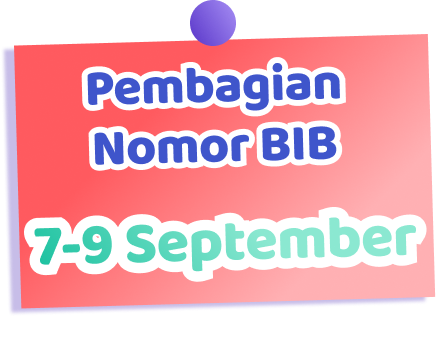
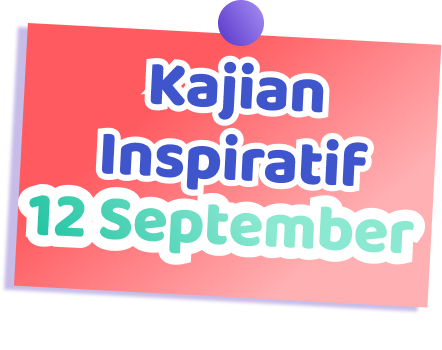
refactor: update activities with local card images and restructure timeline layout to five items

diff --git a/components/Timeline.tsx b/components/Timeline.tsx
@@ -23,34 +23,27 @@ const timelineData: TimelineItem[] = [
   },
   {
     id: 2,
-    title: "Penutupan Pendaftaran",
-    date: "6 September",
-    width: 439,
-    height: 351,
-  },
-  {
-    id: 3,
     title: "Pembagian Nomor BIB",
     date: "7-9 September",
     width: 437,
     height: 352,
   },
   {
-    id: 4,
+    id: 3,
     title: "Kajian Inspiratif",
     date: "12 September",
     width: 442,
     height: 350,
   },
   {
-    id: 5,
+    id: 4,
     title: "Aksi Donor Darah",
     date: "12 September",
     width: 438,
     height: 352,
   },
   {
-    id: 6,
+    id: 5,
     title: "Fun Run",
     date: "13 September",
     width: 542,
@@ -104,15 +97,15 @@ export function Timeline() {
 
         {/* Timeline Canvas Container */}
         <div className="relative mx-auto w-full max-w-5xl">
-          {/* Animated SVG Connecting Vector Line + Node Dots (Replaces line.png) */}
+          {/* Animated SVG Connecting Vector Line */}
           <svg
             className="pointer-events-none absolute inset-0 w-full h-full z-0 hidden md:block"
             viewBox="0 0 1000 520"
             preserveAspectRatio="none"
           >
-            {/* Red Zig-Zag Timeline Path (Fine-tuned position) */}
+            {/* Red Zig-Zag Timeline Path for 5 items */}
             <motion.path
-              d="M 166 42 L 500 42 L 834 42 L 166 306 L 500 306 L 834 306"
+              d="M 166 42 L 500 42 L 834 42 L 333 306 L 666 306"
               fill="none"
               stroke="#FF5B77"
               strokeWidth="5"
@@ -125,51 +118,55 @@ export function Timeline() {
             />
           </svg>
 
-          {/* Desktop Layout: 2 Rows matching Figma structure */}
-          <div className="relative z-10 hidden md:grid grid-cols-3 gap-y-16 gap-x-8 items-center py-6">
+          {/* Desktop Layout: 5 items */}
+          <div className="relative z-10 hidden md:block py-6">
             {/* Top Row: Tags 1, 2, 3 */}
-            {timelineData.slice(0, 3).map((item, index) => (
-              <motion.div
-                key={item.id}
-                initial={{ opacity: 0, scale: 0.7, y: 35 }}
-                whileInView={{ opacity: 1, scale: 1, y: 0 }}
-                viewport={{ once: true, amount: 0.2 }}
-                transition={{ ...spring, delay: index * 0.18 }}
-                whileHover={{ scale: 1.06, rotate: index % 2 === 0 ? 2 : -2 }}
-                className="flex justify-center"
-              >
-                <Image
-                  src={`/images/timeline/tag-${item.id}.png`}
-                  alt={`${item.title} - ${item.date}`}
-                  width={item.width}
-                  height={item.height}
-                  className="w-full max-w-[300px] h-auto object-contain drop-shadow-xl"
-                  priority
-                />
-              </motion.div>
-            ))}
+            <div className="grid grid-cols-3 gap-x-8 mb-16 items-center">
+              {timelineData.slice(0, 3).map((item, index) => (
+                <motion.div
+                  key={item.id}
+                  initial={{ opacity: 0, scale: 0.7, y: 35 }}
+                  whileInView={{ opacity: 1, scale: 1, y: 0 }}
+                  viewport={{ once: true, amount: 0.2 }}
+                  transition={{ ...spring, delay: index * 0.18 }}
+                  whileHover={{ scale: 1.06, rotate: index % 2 === 0 ? 2 : -2 }}
+                  className="flex justify-center"
+                >
+                  <Image
+                    src={`/images/timeline/tag-${item.id}.png`}
+                    alt={`${item.title} - ${item.date}`}
+                    width={item.width}
+                    height={item.height}
+                    className="w-full max-w-[300px] h-auto object-contain drop-shadow-xl"
+                    priority
+                  />
+                </motion.div>
+              ))}
+            </div>
 
-            {/* Bottom Row: Tags 4, 5, 6 */}
-            {timelineData.slice(3, 6).map((item, index) => (
-              <motion.div
-                key={item.id}
-                initial={{ opacity: 0, scale: 0.7, y: 35 }}
-                whileInView={{ opacity: 1, scale: 1, y: 0 }}
-                viewport={{ once: true, amount: 0.2 }}
-                transition={{ ...spring, delay: (index + 3) * 0.18 }}
-                whileHover={{ scale: 1.06, rotate: index % 2 === 0 ? -2 : 2 }}
-                className="flex justify-center"
-              >
-                <Image
-                  src={`/images/timeline/tag-${item.id}.png`}
-                  alt={`${item.title} - ${item.date}`}
-                  width={item.width}
-                  height={item.height}
-                  className="w-full max-w-[310px] h-auto object-contain drop-shadow-xl"
-                  priority
-                />
-              </motion.div>
-            ))}
+            {/* Bottom Row: Tags 4, 5 (centered nicely) */}
+            <div className="flex justify-center gap-16 items-center">
+              {timelineData.slice(3, 5).map((item, index) => (
+                <motion.div
+                  key={item.id}
+                  initial={{ opacity: 0, scale: 0.7, y: 35 }}
+                  whileInView={{ opacity: 1, scale: 1, y: 0 }}
+                  viewport={{ once: true, amount: 0.2 }}
+                  transition={{ ...spring, delay: (index + 3) * 0.18 }}
+                  whileHover={{ scale: 1.06, rotate: index % 2 === 0 ? -2 : 2 }}
+                  className="flex justify-center w-[300px]"
+                >
+                  <Image
+                    src={`/images/timeline/tag-${item.id}.png`}
+                    alt={`${item.title} - ${item.date}`}
+                    width={item.width}
+                    height={item.height}
+                    className="w-full max-w-[310px] h-auto object-contain drop-shadow-xl"
+                    priority
+                  />
+                </motion.div>
+              ))}
+            </div>
           </div>
 
           {/* Mobile / Tablet Responsive Stack Layout */}

diff --git a/components/Activities.tsx b/components/Activities.tsx
@@ -34,8 +34,7 @@ const activities: Activity[] = [
     category: "Olahraga",
     description:
       "Berlari bersama menyusuri rute ikonik kota, kumpulkan energi, dan raih medali kebanggaan.",
-    image:
-      "https://images.unsplash.com/photo-1452626038306-9aae5e071dd3?auto=format&fit=crop&w=800&q=80",
+    image: "/images/card/card-funrun.png",
     badgeBg: "bg-[#FF8A00]",
     badgeIcon: Flame,
     pillBg: "bg-[#E2F9F0]",
@@ -51,8 +50,7 @@ const activities: Activity[] = [
     category: "Sosial",
     description:
       "Setetes darahmu menyelamatkan nyawa. Wujud nyata kepedulian sosial untuk sesama.",
-    image:
-      "https://images.unsplash.com/photo-1615461066841-6116e61058f4?auto=format&fit=crop&w=800&q=80",
+    image: "/images/card/card-donor-darah.png",
     badgeBg: "bg-[#FF4D79]",
     badgeIcon: HeartHandshake,
     pillBg: "bg-[#FFE6EC]",
@@ -68,8 +66,7 @@ const activities: Activity[] = [
     category: "Spiritual",
     description:
       "Penuhi asupan spiritual dengan sesi talkshow inspiratif dari narasumber ternama.",
-    image:
-      "https://images.unsplash.com/photo-1511578314322-379afb476865?auto=format&fit=crop&w=800&q=80",
+    image: "/images/card/card-kajian.png",
     badgeBg: "bg-[#6320EE]",
     badgeIcon: BookOpen,
     pillBg: "bg-[#EAE3FF]",
